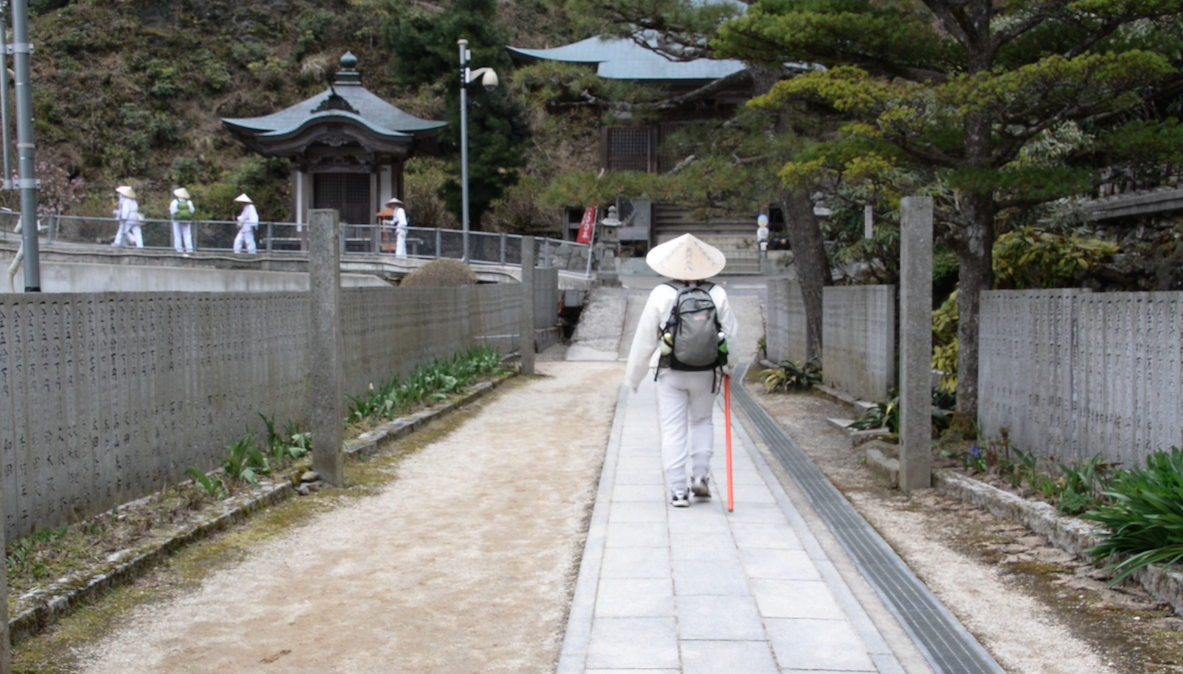
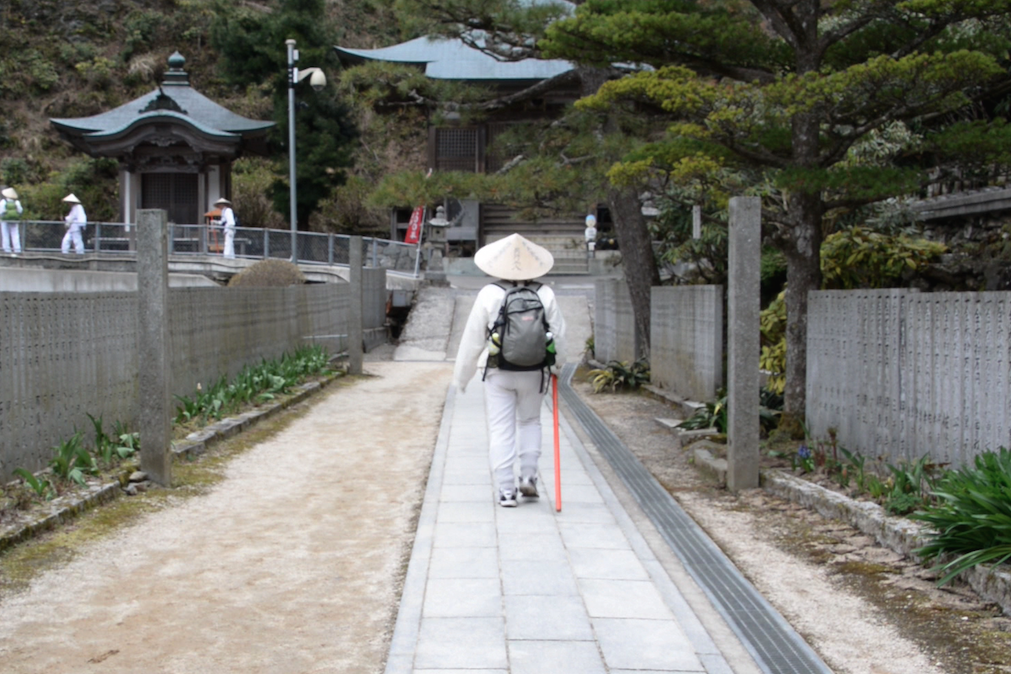
promo and pics
promo description class removed and photos adjusted

diff --git a/SacredJourneys.html b/SacredJourneys.html
@@ -25,12 +25,11 @@
 		<a class="topReturn" href="#grid"></a>
 		<div class="topContainer">
 
-			<!--TODO replace with correct video-->
 			<div class="videoContainer">
 				<div class="cove-box"><iframe id="partnerPlayer" frameborder="0" marginwidth="0" marginheight="0" scrolling="no" src="http://video.pbs.org/widget/partnerplayer/2365050419/?w=1383&h=900&chapterbar=true&autoplay=false&endscreen=false"></iframe></div>
+				<h2>Preview of Sacred Journeys</h2>
+				<p>Sacred Journeys with Bruce Feiler is a groundbreaking new series that takes viewers back into ancient history by traveling through sacred landscapes. Hosted by writer/adventurer Bruce Feiler,SacredJourneys joins contemporary religious pilgrims as they explore ancient pilgrimage routes and holy sites that continue to be surprisingly vibrant and relevant today. </p>
 			</div>
-			
-			<!--TODO MAKE ADD-BLOCK RESPONSIVE-->
 
 			<div id="add-block-placer" class="add-container"><!-- For wider screen viewing experience this placeholder is given a height and width. Its position is then used for relocating add block. --></div>
 
@@ -45,14 +44,9 @@
 		        
 		    </div>		
 		      <!-- END: PBS 300x250 ad -->
-
-		    <div class="promoDescription">
-				<h2>Preview of Sacred Journeys</h2>
-				<p>Sacred Journeys with Bruce Feiler is a groundbreaking new series that takes viewers back into ancient history by traveling through sacred landscapes. Hosted by writer/adventurer Bruce Feiler,SacredJourneys joins contemporary religious pilgrims as they explore ancient pilgrimage routes and holy sites that continue to be surprisingly vibrant and relevant today. </p>
-			</div>
 		</div>
 
-		<!--<div style="clear:both;"></div>-->
+		<div style="clear:both;"></div>
 
 		<!--Location Images-->
 		<div id="grid">
@@ -176,7 +170,6 @@
 
 	<div style="clear:both;"></div>
 
-	<!-- TODO make more responsive. Finish CSS formatting-->
 	<footer>
 		<span>&copy; 2014 WGBH Educational Foundation | <a href="http://www.pbs.org/about/policies/terms-of-use/">Terms of Use</a> | <a href="http://www.pbs.org/about/policies/privacy-policy/">Privacy Policy</a>	
 		</span>

diff --git a/SJ_style.css b/SJ_style.css
@@ -32,7 +32,7 @@ body {
 	padding-bottom: 68.5%;
 	margin-bottom: 10px;
 	position: relative;
-	overflow: hidden;
+	/*overflow: hidden;*/
 	width: calc(99% - 400px);
 	display: inline-block;
 }
@@ -55,14 +55,6 @@ body {
   padding-bottom: -webkit-calc(56% + 41px); /*takes into account the topbar with fixed height!*/
   padding-bottom: calc(56% + 41px);
 }
-
-.promoDescription {
-	margin-left: 1%;
-	position: relative;
-	float: left;
-	width: calc(99%-400px);
-}
-
 
 /*All add-block css below*/
 
